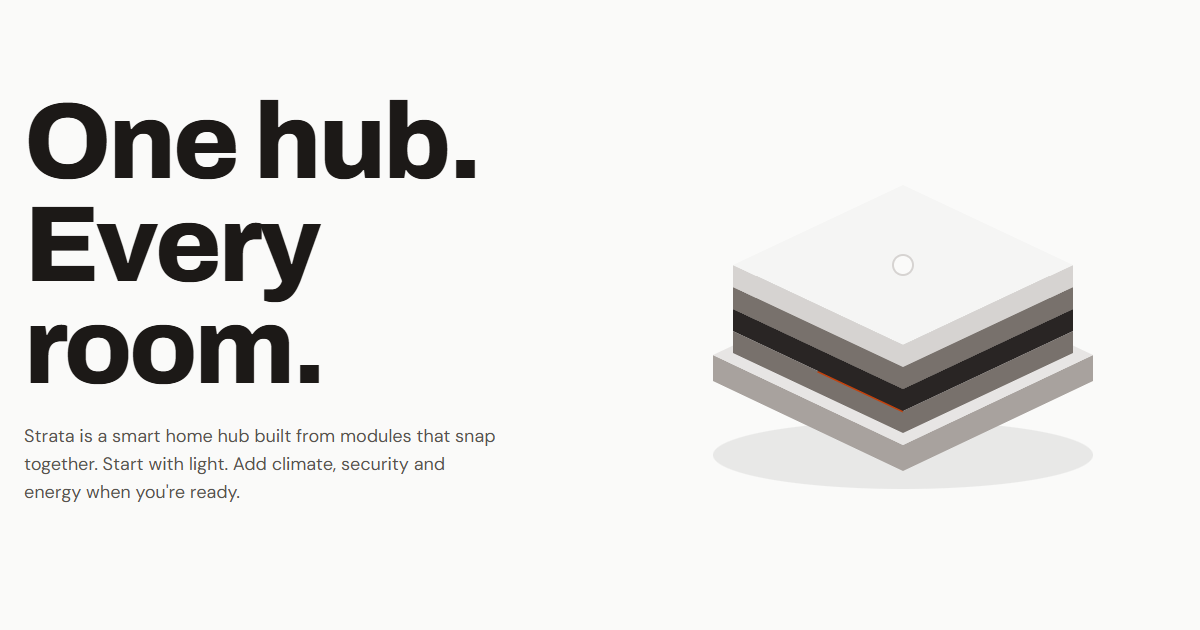
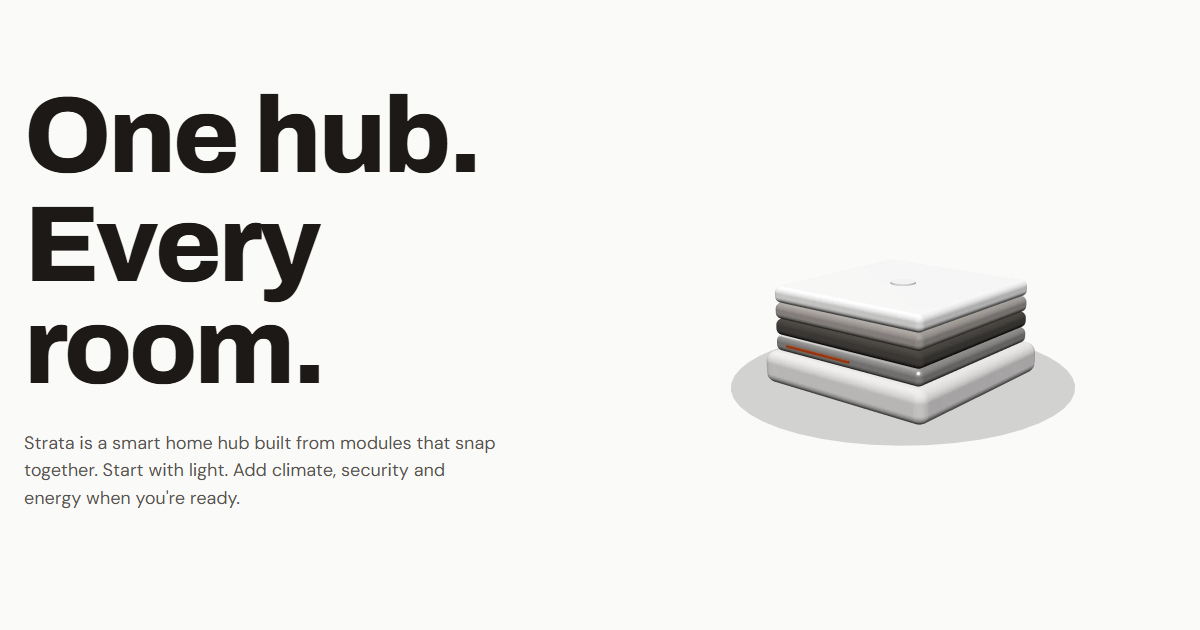
Phase 3: stills rendered from the model, light fade finished, docs and plan updated

diff --git a/scripts/render-stills.ts b/scripts/render-stills.ts
@@ -1,0 +1,58 @@
+// Renders the fallback stills from the 3D model itself (critique P2: the stills must match the
+// model). Starts the dev server, renders the assembled and exploded hub, and saves WebP files with
+// a transparent background to web/assets/stills/. Run with `npm run stills`.
+import { spawn } from "node:child_process";
+import { writeFileSync } from "node:fs";
+import { chromium } from "@playwright/test";
+import { flushTraces, trace } from "../web/telemetry.ts";
+
+const PORT = 5179;
+const server = spawn("npx", ["vite", "--port", String(PORT), "--strictPort"], {
+  shell: process.platform === "win32",
+  stdio: "ignore",
+});
+
+const stills = [
+  { file: "hub-assembled.webp", explode: 0, w: 520, h: 420 },
+  { file: "hub-exploded.webp", explode: 1, w: 420, h: 600 },
+];
+
+try {
+  for (let i = 0; i < 50; i++) {
+    try {
+      if ((await fetch(`http://localhost:${PORT}/render-still.html`)).ok) break;
+    } catch {
+      // not up yet
+    }
+    await new Promise((r) => setTimeout(r, 200));
+  }
+  const browser = await chromium.launch({
+    channel: "chrome",
+    args: ["--enable-unsafe-swiftshader", "--use-angle=swiftshader"],
+  });
+  for (const s of stills) {
+    await trace(
+      "render.still",
+      async () => {
+        const page = await browser.newPage({ deviceScaleFactor: 2 });
+        await page.goto(
+          `http://localhost:${PORT}/render-still.html?explode=${s.explode}&w=${s.w}&h=${s.h}`,
+        );
+        await page.waitForFunction(() => document.title === "ready", null, { timeout: 30_000 });
+        const dataUrl = await page.evaluate(() =>
+          (document.querySelector("canvas") as HTMLCanvasElement).toDataURL("image/webp", 0.88),
+        );
+        const bytes = Buffer.from(dataUrl.split(",")[1] ?? "", "base64");
+        writeFileSync(`web/assets/stills/${s.file}`, bytes);
+        console.log(`${s.file}: ${Math.round(bytes.length / 1024)} KB`);
+        await page.close();
+      },
+      { file: s.file },
+    );
+  }
+  await browser.close();
+} finally {
+  server.kill();
+  await flushTraces();
+}
+process.exit(0);

diff --git a/web/scene/scene.ts b/web/scene/scene.ts
@@ -11,8 +11,18 @@ export interface HubScene {
   dispose(): void;
 }
 
-export function createHubScene(canvas: HTMLCanvasElement, container: HTMLElement): HubScene {
-  const renderer = new THREE.WebGLRenderer({ canvas, antialias: true, alpha: true });
+export function createHubScene(
+  canvas: HTMLCanvasElement,
+  container: HTMLElement,
+  options: { preserveDrawingBuffer?: boolean } = {},
+): HubScene {
+  // preserveDrawingBuffer is only for scripts/render-stills.ts, which reads the pixels back.
+  const renderer = new THREE.WebGLRenderer({
+    canvas,
+    antialias: true,
+    alpha: true,
+    preserveDrawingBuffer: options.preserveDrawingBuffer ?? false,
+  });
   const phone = window.matchMedia("(max-width: 767px)").matches;
   renderer.setPixelRatio(Math.min(window.devicePixelRatio, phone ? 1.5 : 2));
   renderer.outputColorSpace = THREE.SRGBColorSpace;
@@ -31,7 +41,7 @@ export function createHubScene(canvas: HTMLCanvasElement, container: HTMLElement
   scene.add(hub.group);
   const shadow = new THREE.Mesh(
     new THREE.CircleGeometry(1.9, 48),
-    new THREE.MeshBasicMaterial({ color: 0x000000, transparent: true, opacity: 0.28 }),
+    new THREE.MeshBasicMaterial({ color: 0x000000, transparent: true, opacity: 0.16 }),
   );
   shadow.rotation.x = -Math.PI / 2;
   shadow.position.y = 0.002;

diff --git a/web/scene/render-still.ts b/web/scene/render-still.ts
@@ -1,0 +1,20 @@
+// Development only: renders one still of the hub for scripts/render-stills.ts.
+// URL: /render-still.html?explode=0&w=520&h=420
+import { createHubScene } from "./scene";
+
+const params = new URLSearchParams(location.search);
+const width = Number(params.get("w") ?? 520);
+const height = Number(params.get("h") ?? 420);
+const frame = document.getElementById("frame") as HTMLElement;
+const canvas = frame.querySelector("canvas") as HTMLCanvasElement;
+frame.style.width = `${width}px`;
+frame.style.height = `${height}px`;
+canvas.style.width = "100%";
+canvas.style.height = "100%";
+const scene = createHubScene(canvas, frame, { preserveDrawingBuffer: true });
+scene.setExplode(Number(params.get("explode") ?? 0));
+requestAnimationFrame(() =>
+  requestAnimationFrame(() => {
+    document.title = "ready";
+  }),
+);

diff --git a/web/index.html b/web/index.html
@@ -66,7 +66,7 @@
         </div>
         <figure class="still">
           <img
-            src="./assets/stills/hub-assembled.svg"
+            src="./assets/stills/hub-assembled.webp"
             width="520"
             height="420"
             alt="The Strata hub, assembled: a low square base with four module plates stacked on top."
@@ -172,7 +172,7 @@
           </div>
           <figure class="still">
             <img
-              src="./assets/stills/hub-exploded.svg"
+              src="./assets/stills/hub-exploded.webp"
               width="420"
               height="600"
               alt="The hub pulled apart into its four module plates, stacked one above the other: lights at the top, then climate, security and energy."

diff --git a/web/styles/site.css b/web/styles/site.css
@@ -830,3 +830,22 @@ input,
 select {
   caret-color: var(--signal);
 }
+
+/* The pinned hub area and the reassemble line follow the light fade, so no dark box is left
+   behind and the line fades out rather than losing contrast (seen by eye in phase 3). */
+.inside.has-3d .still::before {
+  content: "";
+  position: absolute;
+  inset: 0;
+  background: var(--stone-50);
+  opacity: var(--light, 0);
+  pointer-events: none;
+}
+
+.inside.has-3d .still canvas {
+  position: relative;
+}
+
+.inside.has-3d .reassemble {
+  opacity: calc(1 - var(--light, 0));
+}

diff --git a/web/render-still.html b/web/render-still.html
@@ -1,0 +1,12 @@
+<!doctype html>
+<html lang="en">
+  <head>
+    <meta charset="utf-8" />
+    <title>Render a still of the hub (development only)</title>
+  </head>
+  <body style="margin: 0; background: transparent">
+    <!-- Used by scripts/render-stills.ts through the dev server; not part of the built site. -->
+    <div id="frame"><canvas></canvas></div>
+    <script type="module" src="./scene/render-still.ts"></script>
+  </body>
+</html>

diff --git a/web/scene/start.ts b/web/scene/start.ts
@@ -114,9 +114,9 @@ export function start(): boolean {
   section.dataset.light = "0";
   ScrollTrigger.create({
     trigger: "#reassemble",
-    start: "bottom bottom",
+    start: "top 25%",
     endTrigger: section,
-    end: "bottom 40%",
+    end: "bottom 60%",
     scrub: true,
     onUpdate: (self) => {
       const light = Math.round(self.progress * 100) / 100;

diff --git a/docs/PLAN.md b/docs/PLAN.md
@@ -61,7 +61,7 @@ Phases 2a and 2b take the parts marked [2a] and [2b] below. Branches: `phase-2a-
 
 **Files:** `web/styles/*.css`, `web/main.ts`, `web/form.ts`, `web/scene/hub.ts`, `web/scene/scroll.ts` (built as `web/scene/scene.ts` and `web/scene/start.ts`), `web/assets/stills/`, `scripts/render-stills.ts`, `e2e/layout.spec.ts`, `e2e/form.spec.ts`, `e2e/motion.spec.ts`, `web/scene/hub.test.ts`, `package.json` (fonts), `docs/STATUS.md`, `docs/log/`.
 
-**Departures in 2b (recorded 20 November 2026; departures 1, 2 and 5 approved by Anand Bakshi on 20 November 2026, with SPEC, DESIGN and INTENT updated):** (1) The stills stay as the self-made SVG drawings approved with the design sample, not renders of the model (step 9): they are about 1 kB each, sharp at any size and already approved; `scripts/render-stills.ts` was not built. (2) The hero keeps its still image; the 3D hub lives only in the look-inside section, where it explodes. The hero is the Largest Contentful Paint, so a still there keeps it fast (acceptance test 2), and Three.js loads after the page is readable. (3) The pinned area is CSS `position: sticky`, not a GSAP pin: still one pinned area, with no layout jump. (5) Phones and tablets: the hub is a band at the top (34% of the screen) with the chapters scrolling below it and a label in the band naming the active module, instead of DESIGN.md 8's full-screen canvas with a text panel at the bottom. (4) The frame-rate check is `npm run perf` (Pixel 5 profile, 4x CPU slowdown), kept out of `npm run check` because it measures rather than passes or fails.
+**Departures in 2b (recorded 20 November 2026; departures 1, 2 and 5 approved by Anand Bakshi on 20 November 2026, with SPEC, DESIGN and INTENT updated):** (1) [Reversed at the phase 3 critique: the stills are now rendered from the model by `npm run stills`.] The stills stay as the self-made SVG drawings approved with the design sample, not renders of the model (step 9): they are about 1 kB each, sharp at any size and already approved; `scripts/render-stills.ts` was not built. (2) The hero keeps its still image; the 3D hub lives only in the look-inside section, where it explodes. The hero is the Largest Contentful Paint, so a still there keeps it fast (acceptance test 2), and Three.js loads after the page is readable. (3) The pinned area is CSS `position: sticky`, not a GSAP pin: still one pinned area, with no layout jump. (5) Phones and tablets: the hub is a band at the top (34% of the screen) with the chapters scrolling below it and a label in the band naming the active module, instead of DESIGN.md 8's full-screen canvas with a text panel at the bottom. (4) The frame-rate check is `npm run perf` (Pixel 5 profile, 4x CPU slowdown), kept out of `npm run check` because it measures rather than passes or fails.
 
 **Could break:** the speed target (3D on a mid-range phone); text reflow when fonts load (layout shift); the pinned area on iOS Safari; reading order if the canvas sits in front of the text.
 
@@ -94,17 +94,19 @@ Phases 2a and 2b take the parts marked [2a] and [2b] below. Branches: `phase-2a-
 
 **Files:** `web/index.html` (head), `web/public/robots.txt`, `web/public/sitemap.xml`, `scripts/lighthouse.ts`, `e2e/seo.spec.ts`, CSS and scene files for fixes, `docs/log/` (Lighthouse and Impeccable results), `docs/STATUS.md`.
 
+**Done differently (recorded 20 November 2026):** Edge runs in Playwright beside Chrome; Firefox and Safari need browser downloads and are checked by hand at release (phase 4). The site URL in the head tags, robots.txt and sitemap.xml is assumed to be `https://strata-hub.netlify.app` until phase 4 decides the host. The 3D now loads after the first scroll has settled, which brought LCP from about 3.0 s to 1.4 to 1.6 s. The person approved the Impeccable critique fixes and design calls N2 and N6; the stills are rendered from the model again (`npm run stills`).
+
 **Could break:** the Content Security Policy can block GSAP or Three.js if they inject styles; fixes from the critique can move away from DESIGN.md (they must not, without the person).
 
 **Success criteria**
 
-- [ ] The page has a unique title and description, Open Graph tags, `robots.txt` and `sitemap.xml`.
-- [ ] Lighthouse mobile: LCP under 2.5 s (acceptance test 2) and accessibility 95 or more (acceptance test 3); results saved in `docs/log/`.
-- [ ] JavaScript and the model together under 600 KB compressed, shown from the build output.
-- [ ] Cumulative Layout Shift under 0.1.
-- [ ] The Content Security Policy is in place and the page shows zero console errors in Chrome, Edge and Firefox, and in Safari where available (SPEC 12).
-- [ ] The Impeccable critique is saved in `docs/log/`, with each finding fixed or listed for the person.
-- [ ] `npm run check` passes.
+- [x] The page has a unique title and description, Open Graph tags, `robots.txt` and `sitemap.xml`.
+- [x] Lighthouse mobile: LCP under 2.5 s (acceptance test 2) and accessibility 95 or more (acceptance test 3); results saved in `docs/log/`.
+- [x] JavaScript and the model together under 600 KB compressed, shown from the build output.
+- [x] Cumulative Layout Shift under 0.1.
+- [x] The Content Security Policy is in place and the page shows zero console errors in Chrome, Edge and Firefox, and in Safari where available (SPEC 12).
+- [x] The Impeccable critique is saved in `docs/log/`, with each finding fixed or listed for the person.
+- [x] `npm run check` passes.
 
 ## Phase 4: Deployment & Documentation
 

diff --git a/DESIGN.md b/DESIGN.md
@@ -54,7 +54,7 @@ Both families are open source (SIL Open Font License) and **self-hosted** as WOF
 
 Rules:
 
-- **The display face is used a few times only:** the hero headline, the four chapter names and the bundles title. Everything else is DM Sans. (refs 01 and 03)
+- **The display face is used a few times only:** the hero headline and the four chapter names (48 to 88 px since 20 November 2026). The bundles title stays at Archivo 700, a heading, not display: it is a utility section and must not compete with the climax (approved 20 November 2026). Everything else is DM Sans. (refs 01 and 03)
 - **Mono only where it carries data:** the 3 specs per module, prices and readings. Not for labels or buttons.
 - **Sentence case everywhere.** No all-caps labels, no tracked-out eyebrows, and no single accented word in a headline.
 - **Line length** 45 to 70 characters for body text (max-width 34rem).
@@ -72,7 +72,7 @@ Rules:
 
 | Component | Rules |
 |-----------|-------|
-| **Header** | Logo on the left, three links (Modules, Bundles, FAQ) and the Register interest button on the right. 64 px tall, `--stone-50` at 92% opacity once you scroll. On phones the links fold into a menu button labelled "Menu"; the Register interest button stays visible. |
+| **Header** | Logo on the left, three links (Modules, Bundles, FAQ) and the Register interest button on the right. 64 px tall, `--stone-50` at 92% opacity once you scroll, and fully opaque while the dark section is under it (approved 20 November 2026: the 92% showed headings through it). Its Register interest button is the outlined one, so the hero's is the only orange button on the first screen. On phones the links fold into a menu button labelled "Menu"; the Register interest button stays visible. |
 | **Primary button** | Pill, `--signal` fill, white DM Sans 500, 48 px tall (44 px minimum touch target), 24 px side padding. Hover and pressed: `--signal-dark`. One primary button per screen. |
 | **Text link** | `--signal` underlined, 2 px offset. |
 | **Callout** (on the 3D model) | A 1 px `--signal-glow` leader line from the module to a label: module name (DM Sans 500) and one spec (Plex Mono). Appears when its chapter is in view. (ref 04) |
@@ -97,7 +97,7 @@ Static first: every section is built and passes Playwright without motion, then 
 
 | Moment | What moves | How |
 |--------|-----------|-----|
-| Hero load | The headline appears line by line (the hero hub is a still since 20 November 2026) | 600 ms, `power2.out`, once. No other load animation. Not built yet: open for phase 3. |
+| Hero load | The headline rises line by line from an already visible position (the hero hub is a still since 20 November 2026) | 600 ms, ease-out, 80 ms stagger, once, CSS only. Never starts transparent. None with reduced motion. |
 | Look inside (the one pinned area) | The canvas stays in place (sticky) while the four chapters scroll past it. The modules separate along the vertical axis; the active module comes forward and its callout appears. | ScrollTrigger with `scrub: 1`, tied to the scroll position, not timed. |
 | Reassemble | The modules snap back together and the background turns light again | The same scrubbed timeline, reversed into place. |
 | Section text | Headline and specs rise 24 px and fade in | 500 ms, `power2.out`, at most 8 items staggered by 80 ms, once per section. |

diff --git a/docs/STATUS.md b/docs/STATUS.md
@@ -1,6 +1,6 @@
 # Status
 
-Phases 1, 2a and 2b are built (2b on `phase-2b-3d-hub-motion`, 20 November 2026). The page is styled from DESIGN.md, and the look-inside chapters have the 3D hub: it comes apart as you scroll, brings each module forward in its chapter, names it in a callout on wide screens, and snaps back together. With reduced motion or no WebGL the stills show instead.
+Phases 1, 2a, 2b and 3 are built (3 on `phase-3-seo-accessibility-performance`, 20 November 2026). The page is complete: approved copy, the styled page and form, the 3D hub with its scroll motion, search and sharing tags, a Content Security Policy, and the design-critique fixes. Phase 4 adds deployment and documentation.
 
 - `web/index.html`: every section in the SPEC 5 order with the approved copy; still images of the hub (assembled in the hero, exploded beside the chapters).
 - `web/styles/`: `tokens.css` (DESIGN.md tokens), `base.css`, `site.css` (the sections, DESIGN.md 3 to 8).
@@ -9,7 +9,7 @@ Phases 1, 2a and 2b are built (2b on `phase-2b-3d-hub-motion`, 20 November 2026)
 - `web/menu.ts`: on phones the section links fold into a Menu button; without JavaScript they stay visible.
 - `web/scene/`: `hub.ts` (the procedural model: a base and four plates, about 3,100 triangles (measured: 3,080), no textures), `scene.ts` (renderer, camera, lights, contact shadow; renders only when something changes), `start.ts` (GSAP ScrollTrigger: explode, active module, callout). Loaded after the page is readable, only when motion is allowed and WebGL works.
 - `web/telemetry.ts`: traces build and test runs only; nothing in the browser (SPEC 13).
-- Checks: `npm run check` runs Prettier, ESLint, TypeScript, Vitest (21 tests) and Playwright (35 tests against the production build, one worker). `npm run perf` measures the frame rate in the 3D section (last run: 60 frames per second, 95th percentile frame 16.8 ms, Pixel 5 profile with 4x CPU slowdown).
+- Checks: `npm run check` runs Prettier, ESLint, TypeScript, Vitest (21 tests) and Playwright (63 tests against the production build: Chrome for all, Edge for the page and security checks). `npm run perf` measures the frame rate in the 3D section (last run: 60 frames per second, 95th percentile frame 16.8 ms, Pixel 5 profile with 4x CPU slowdown).
 
 ## Run it
 
@@ -17,3 +17,10 @@ Phases 1, 2a and 2b are built (2b on `phase-2b-3d-hub-motion`, 20 November 2026)
 - `npm run dev` starts the page at http://localhost:5173.
 - `npm run check` runs every check. Playwright builds the site and tests it with `vite preview` on port 4173, using the installed Chrome.
 - `npm run build` writes the static site to `dist/`.
+
+## Measurements (20 November 2026)
+
+- `npm run lighthouse` (mobile, three runs, worst): LCP 1.59 s, layout shift 0.001, accessibility 100, SEO 100, best practices 100, performance 97. Saved in `docs/log/2026-11-20-lighthouse.json`.
+- `npm run perf`: 60 frames per second in the 3D section, 95th percentile frame 16.8 ms.
+- JavaScript 177 KB compressed (budget 600 KB); the 3D chunk loads only after the first scroll has settled.
+- `npm run stills` renders the fallback stills from the model.

diff --git a/docs/log/2026-11-20-phase-3.md b/docs/log/2026-11-20-phase-3.md
@@ -1,0 +1,30 @@
+# Phase 3: SEO, accessibility and performance (20 November 2026)
+
+## Built
+
+- Tests first (e384727, output in `2026-11-20-phase-3-first-run.txt`): `e2e/seo.spec.ts` (6 tests; 4 failed, the budget and layout-shift tests passed and now guard).
+- Head: title, description, canonical link, Open Graph and Twitter card tags, theme colour; `web/public/robots.txt`, `sitemap.xml` and `og-image.png` (rendered from the page's own hero). Site URL assumed `https://strata-hub.netlify.app` until phase 4.
+- Content Security Policy in the built page only (a Vite plugin): `default-src 'self'`, `script-src 'self'`, `style-src 'self'`, `form-action 'none'` and more. Zero console errors in Chrome and Edge.
+- Touch targets: the logo 44 px, footer links 24 px.
+- `npm run lighthouse` (`scripts/lighthouse.ts`, through telemetry spans). First runs: LCP about 3.0 s, failing. Cause: the 3D chunk (about 730 ms of script) loading during the first paint. Fixed by loading the 3D only after the first scroll has settled. Then LCP 1.36 to 1.59 s.
+- Edge added to Playwright for the page and security tests.
+
+## Impeccable critique
+
+Run as two isolated assessments (design review and detector), report in `2026-11-20-phase-3-impeccable-critique.md`: 22/32, 2 P1, 3 P2. The person chose to fix all five and both design calls (N2, N6), and to keep the bundle buttons as they are. Tests first (4a9d2ec), then:
+
+- P1: the header button is outlined; one orange button on the first screen.
+- P1: a light layer fades in by opacity after the reassembly (the pinned hub area and the reassemble line follow it); the band's border is gone.
+- P2: the stills are rendered from the 3D model (`npm run stills`, WebP, 16 and 20 KB), replacing the hand-drawn SVGs.
+- P2: the Recommended tag sits on the card's top edge, so rows and prices line up; no "Hub: included" row; drawn check and dash icons instead of text glyphs; cards capped at 32rem below 1024 px.
+- P2: the header is opaque while the dark section is under it.
+- N2: chapter names 48 to 88 px; the bundles title stays at weight 700 (DESIGN 3 amended).
+- N6: the headline rises line by line from a visible position, CSS only, none with reduced motion.
+- Craft floor: the form's confirmation is a quiet panel instead of a coloured left border; text selection and the caret use the palette.
+
+## Problems met
+
+- Loading the 3D on the first scroll interrupted smooth scrolling from the nav links (a Bundles click stopped about 20 px down): starting the 3D refreshes ScrollTrigger and changed the section's height. Fixed: the 3D starts once scrolling has settled, and the section's bottom space is the same with or without the 3D. Test added.
+- The first light-fade version left the pinned hub area as a dark box on a grey background and faded the reassemble line's contrast; seen by eye and fixed.
+- A careless CSS edit removed the wrong border rule (the spec list's); caught by a test and restored.
+- An old preview server from an earlier session held port 4181; stopped.

diff --git a/docs/SPEC.md b/docs/SPEC.md
@@ -107,7 +107,7 @@ The sections a visitor sees (INTENT "Constraints: key screens", A9):
 
 | What goes wrong | What should happen |
 |-----------------|--------------------|
-| The device has no WebGL, or the 3D fails to load | Show still images of the assembled and exploded hub, self-made drawings matching the model (changed 20 November 2026, approved by Anand Bakshi), and scroll normally. Nothing is hidden. (A10) |
+| The device has no WebGL, or the 3D fails to load | Show still images of the assembled and exploded hub, rendered from our own model by `npm run stills` (changed again 20 November 2026 at the phase 3 design critique, approved by Anand Bakshi: the hand-drawn stills did not match the model), and scroll normally. Nothing is hidden. (A10) |
 | The visitor prefers reduced motion | No scroll-driven motion: the still images are shown and sections appear in their final state. (A10, INTENT "Constraints") |
 | JavaScript is off | The page reads top to bottom as plain content; the form shows "Turn on JavaScript to register interest." (A2) |
 | The 3D model is still loading | The hero shows the still image of the hub in the same place and size, so nothing moves when the model is ready. (Assumed) |
